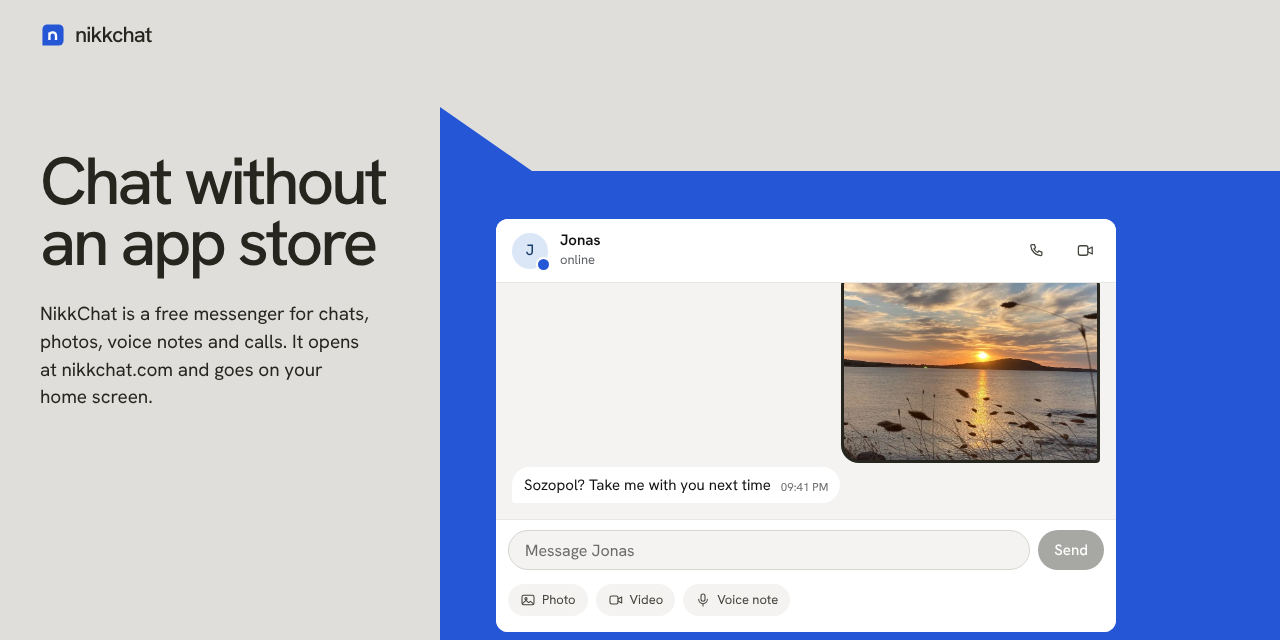
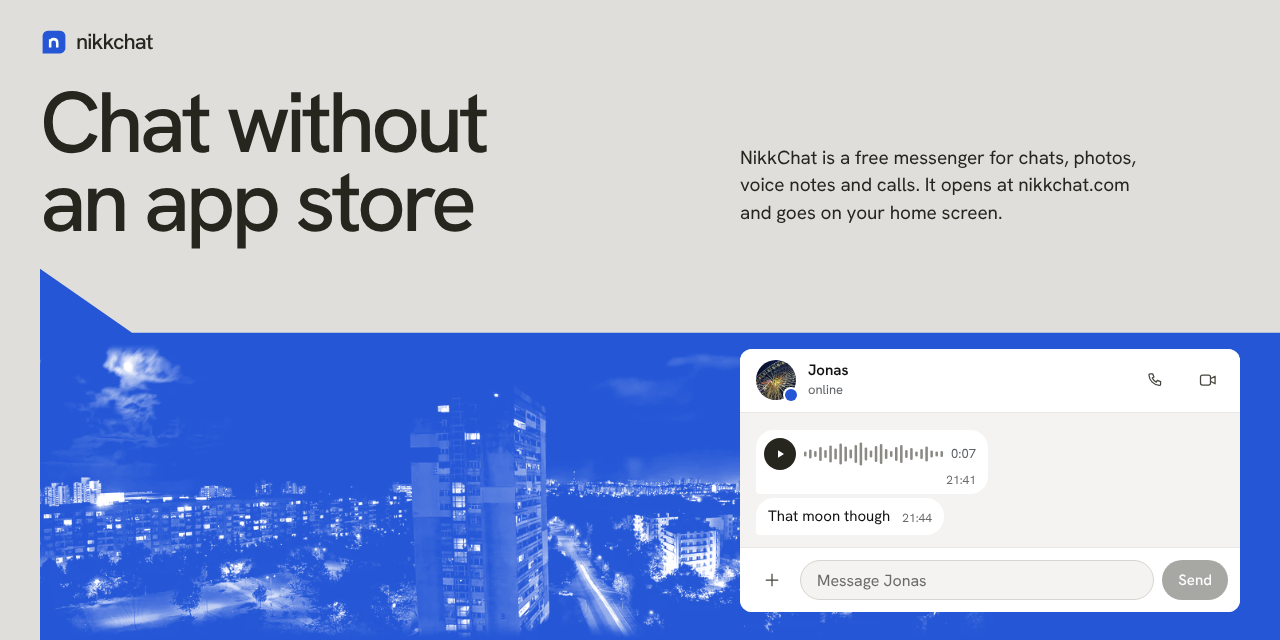
Homepage screenshot and preview card: the new first screen
The site's hero now carries a photograph of Burgas at night printed in
the brand blue, with the chat in front. Recaptured site-home.png and the
social preview from the new build, updated the alt text, and credited
the photograph (Wikimedia Commons, CC BY-SA 3.0) with the note that the
two images that include it are shared under the same licence.

diff --git a/screenshots/README.md b/screenshots/README.md
@@ -28,4 +28,11 @@ shared them:
 | [Ferris wheel night](https://www.rawpixel.com/image/3286001/free-photo-image-france-amusement-park-cc0) | rawpixel |
 | [London Night Sky Tower Blocks](https://commons.wikimedia.org/w/index.php?curid=71318382) | Stephan Guttinger |
 
+The homepage capture also shows
+[Night Panorama of Burgas](https://commons.wikimedia.org/wiki/File:Night_Panorama_of_Burgas.jpg)
+by Nasomatrix at Bulgarian Wikipedia,
+[CC BY-SA 3.0](https://creativecommons.org/licenses/by-sa/3.0/), cropped and printed in one
+colour. `site-home.png` and `brand/social-preview.png` include that adaptation and are
+shared under the same licence.
+
 Everything else in the captures is NikkChat's own interface.

diff --git a/README.md b/README.md
@@ -33,7 +33,7 @@ It is **not end-to-end encrypted**, and nothing here says it is. What is protect
 what isn't yet, is written down in [`docs/SECURITY.md`](docs/SECURITY.md) and on
 [nikkchat.com/security](https://nikkchat.com/security).
 
-<img src="screenshots/site-home.png" alt="The nikkchat.com homepage: the headline Chat without an app store, beside a working chat with Jonas" />
+<img src="screenshots/site-home.png" alt="The nikkchat.com homepage: the headline Chat without an app store above a working chat with Jonas, in front of Burgas at night printed in blue" />
 
 ## Screenshots
 
